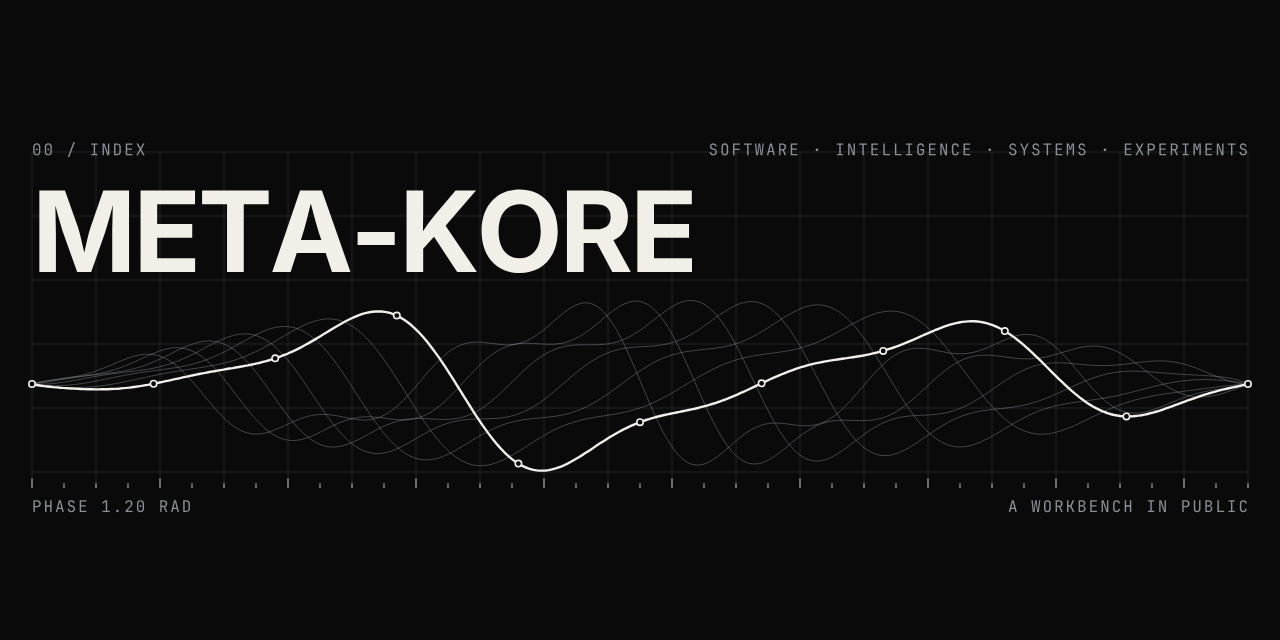
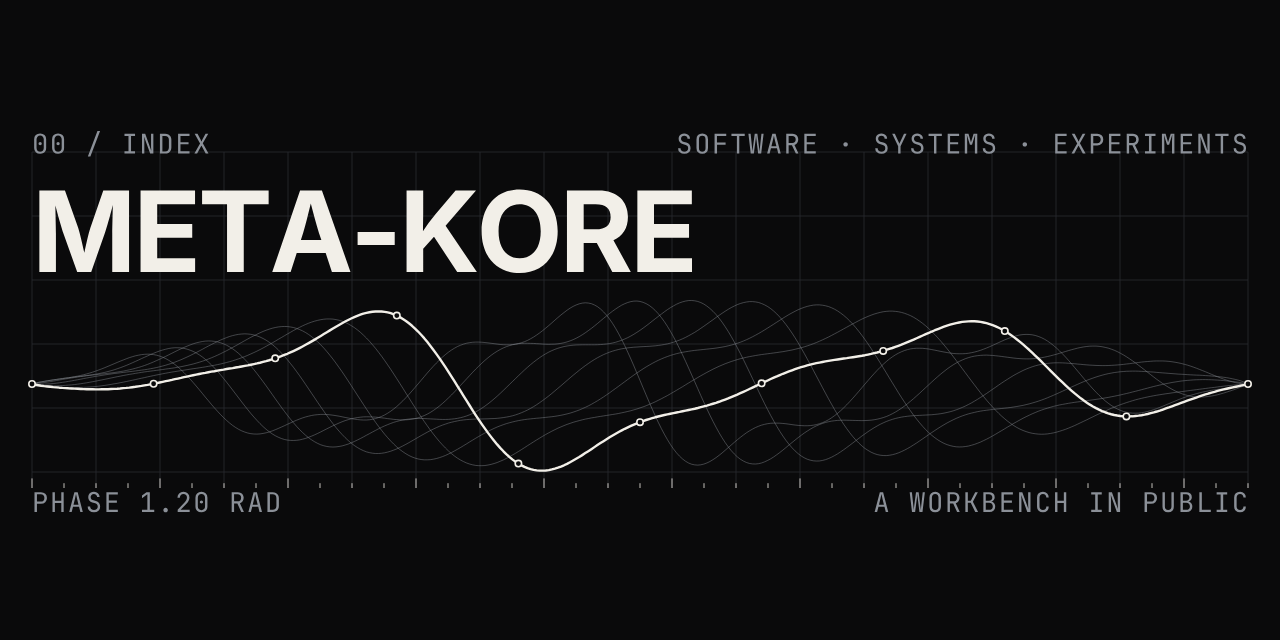
Make header labels readable on mobile (#6)
* Replace Selected work table with single-column list for mobile

Claude-Session: https://claude.ai/code/session_01E2ed9nhPLDjxN2am3Hh2SN

* Outline header text and rebuild GIF; add Chromium rasterizer fallback

Claude-Session: https://claude.ai/code/session_01E2ed9nhPLDjxN2am3Hh2SN

* Fill Workbench section; hint at private work

Claude-Session: https://claude.ai/code/session_01E2ed9nhPLDjxN2am3Hh2SN

* Add Foundations group to Selected work

Claude-Session: https://claude.ai/code/session_01E2ed9nhPLDjxN2am3Hh2SN

* Add animated project plates, social card; drop Elsewhere; add ActionExtract hint

Claude-Session: https://claude.ai/code/session_01E2ed9nhPLDjxN2am3Hh2SN

* Enlarge plate labels for mobile; taller canvas; bigger kitty ring; fix monty add crossfade

Claude-Session: https://claude.ai/code/session_01E2ed9nhPLDjxN2am3Hh2SN

* Enlarge header labels for mobile; rebuild header, GIF and social card

Claude-Session: https://claude.ai/code/session_01E2ed9nhPLDjxN2am3Hh2SN

---------

diff --git a/scripts/build-assets.py b/scripts/build-assets.py
@@ -109,9 +109,9 @@ def header(phase=0.0):
 
     # annotations
     def lab(t, x, y, anchor="start"):
-        return text_el(t, x, y, 20, ASH, FONT_MONO, MONO, 2.4, anchor)
-    o.append(lab("00 / INDEX", M, M + 4))
-    o.append(lab("SOFTWARE · INTELLIGENCE · SYSTEMS · EXPERIMENTS", W - M, M + 4, "end"))
+        return text_el(t, x, y, 34, ASH, FONT_MONO, MONO, 2.0, anchor)
+    o.append(lab("00 / INDEX", M, M + 2))
+    o.append(lab("SOFTWARE · SYSTEMS · EXPERIMENTS", W - M, M + 2, "end"))
     o.append(lab(f"PHASE {phase:.2f} RAD", M, H - M + 30))
     o.append(lab("A WORKBENCH IN PUBLIC", W - M, H - M + 30, "end"))
     o.append("</svg>")
